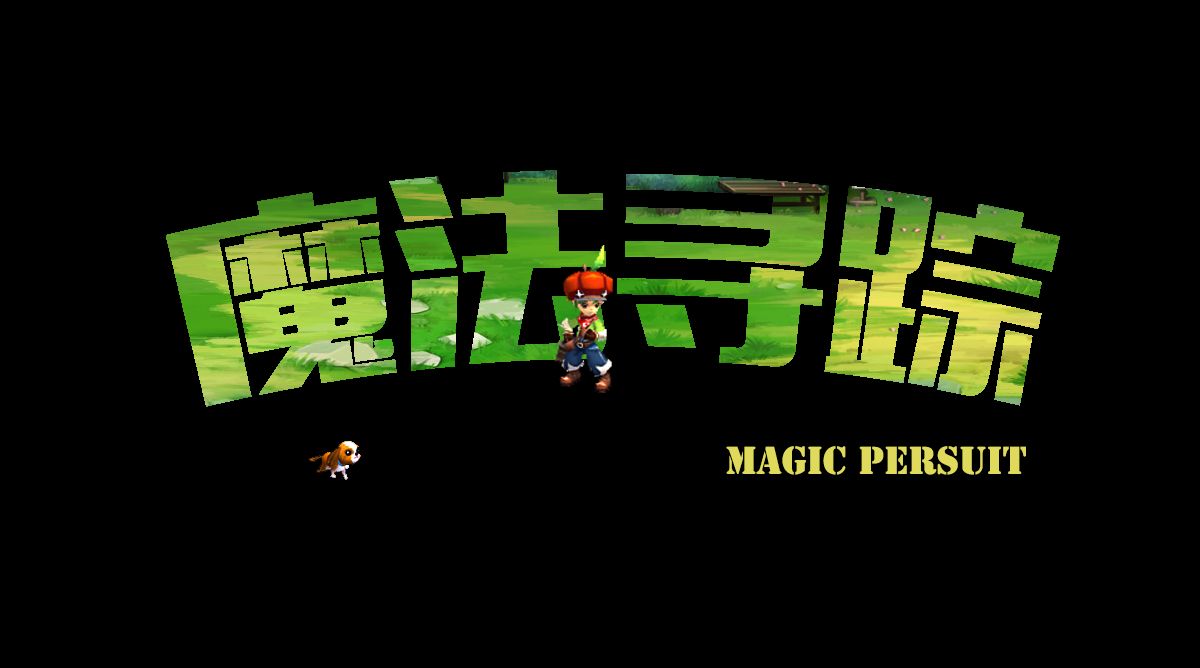
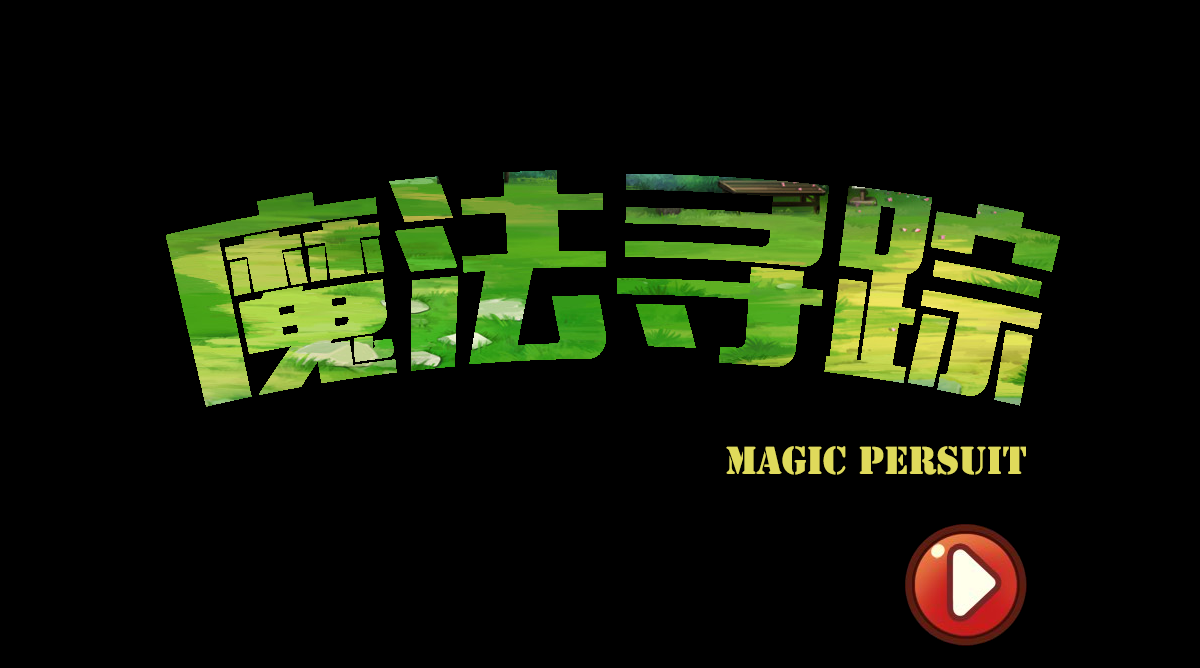
Add animation for cover screen

Changed region(s): [[0.74, 0.7784, 0.8633, 0.988], [0.4625, 0.3593, 0.5242, 0.5988], [0.2467, 0.6587, 0.3083, 0.7186]]

diff --git a/WizardEscape/src/com/smilestudio/wizardescape/utils/ResourceHelper.java b/WizardEscape/src/com/smilestudio/wizardescape/utils/ResourceHelper.java
@@ -3,6 +3,7 @@ package com.smilestudio.wizardescape.utils;
 import com.badlogic.gdx.Gdx;
 import com.badlogic.gdx.audio.Music;
 import com.badlogic.gdx.graphics.Texture;
+import com.badlogic.gdx.graphics.g2d.TextureRegion;
 import com.badlogic.gdx.scenes.scene2d.ui.Image;
 
 public class ResourceHelper {
@@ -79,4 +80,96 @@ public class ResourceHelper {
         }
     }
 
+    public static TextureRegion[] getHeroDownRegions() {
+        TextureRegion[] regions = new TextureRegion[6];
+        regions[0] = new TextureRegion(new Texture(Gdx.files.internal("character/img_run_front_0.png")));
+        regions[1] = new TextureRegion(new Texture(Gdx.files.internal("character/img_run_front_1.png")));
+        regions[2] = new TextureRegion(new Texture(Gdx.files.internal("character/img_run_front_2.png")));
+        regions[3] = new TextureRegion(new Texture(Gdx.files.internal("character/img_run_front_3.png")));
+        regions[4] = new TextureRegion(new Texture(Gdx.files.internal("character/img_run_front_4.png")));
+        regions[5] = new TextureRegion(new Texture(Gdx.files.internal("character/img_run_front_5.png")));
+        return regions;
+    }
+
+    public static TextureRegion[] getHeroUpRegions() {
+        TextureRegion[] regions = new TextureRegion[6];
+        regions[0] = new TextureRegion(new Texture(Gdx.files.internal("character/img_run_back_0.png")));
+        regions[1] = new TextureRegion(new Texture(Gdx.files.internal("character/img_run_back_1.png")));
+        regions[2] = new TextureRegion(new Texture(Gdx.files.internal("character/img_run_back_2.png")));
+        regions[3] = new TextureRegion(new Texture(Gdx.files.internal("character/img_run_back_3.png")));
+        regions[4] = new TextureRegion(new Texture(Gdx.files.internal("character/img_run_back_4.png")));
+        regions[5] = new TextureRegion(new Texture(Gdx.files.internal("character/img_run_back_5.png")));
+        return regions;
+    }
+
+    public static TextureRegion[] getHeroLeftRegions() {
+        TextureRegion[] regions = new TextureRegion[6];
+        regions[0] = new TextureRegion(new Texture(Gdx.files.internal("character/img_run_left_0.png")));
+        regions[1] = new TextureRegion(new Texture(Gdx.files.internal("character/img_run_left_1.png")));
+        regions[2] = new TextureRegion(new Texture(Gdx.files.internal("character/img_run_left_2.png")));
+        regions[3] = new TextureRegion(new Texture(Gdx.files.internal("character/img_run_left_3.png")));
+        regions[4] = new TextureRegion(new Texture(Gdx.files.internal("character/img_run_left_4.png")));
+        regions[5] = new TextureRegion(new Texture(Gdx.files.internal("character/img_run_left_5.png")));
+        return regions;
+    }
+
+    public static TextureRegion[] getHeroRightRegions() {
+        TextureRegion[] regions = new TextureRegion[6];
+        regions[0] = new TextureRegion(new Texture(Gdx.files.internal("character/img_run_right_0.png")));
+        regions[1] = new TextureRegion(new Texture(Gdx.files.internal("character/img_run_right_1.png")));
+        regions[2] = new TextureRegion(new Texture(Gdx.files.internal("character/img_run_right_2.png")));
+        regions[3] = new TextureRegion(new Texture(Gdx.files.internal("character/img_run_right_3.png")));
+        regions[4] = new TextureRegion(new Texture(Gdx.files.internal("character/img_run_right_4.png")));
+        regions[5] = new TextureRegion(new Texture(Gdx.files.internal("character/img_run_right_5.png")));
+        return regions;
+    }
+
+    public static TextureRegion[] getHeroStandRegions() {
+        TextureRegion[] regions = new TextureRegion[10];
+        regions[0] = new TextureRegion(new Texture(Gdx.files.internal("character/img_stand_0.png")));
+        regions[1] = new TextureRegion(new Texture(Gdx.files.internal("character/img_stand_1.png")));
+        regions[2] = new TextureRegion(new Texture(Gdx.files.internal("character/img_stand_2.png")));
+        regions[3] = new TextureRegion(new Texture(Gdx.files.internal("character/img_stand_3.png")));
+        regions[4] = new TextureRegion(new Texture(Gdx.files.internal("character/img_stand_4.png")));
+        regions[5] = new TextureRegion(new Texture(Gdx.files.internal("character/img_stand_5.png")));
+        regions[6] = new TextureRegion(new Texture(Gdx.files.internal("character/img_stand_6.png")));
+        regions[7] = new TextureRegion(new Texture(Gdx.files.internal("character/img_stand_7.png")));
+        regions[8] = new TextureRegion(new Texture(Gdx.files.internal("character/img_stand_8.png")));
+        regions[9] = new TextureRegion(new Texture(Gdx.files.internal("character/img_stand_9.png")));
+        return regions;
+    }
+
+    public static TextureRegion[] getDogRightRegions() {
+        TextureRegion[] regions = new TextureRegion[8];
+        regions[0] = new TextureRegion(new Texture(Gdx.files.internal("character/img_dog_walk_0.png")));
+        regions[1] = new TextureRegion(new Texture(Gdx.files.internal("character/img_dog_walk_1.png")));
+        regions[2] = new TextureRegion(new Texture(Gdx.files.internal("character/img_dog_walk_2.png")));
+        regions[3] = new TextureRegion(new Texture(Gdx.files.internal("character/img_dog_walk_3.png")));
+        regions[4] = new TextureRegion(new Texture(Gdx.files.internal("character/img_dog_walk_4.png")));
+        regions[5] = new TextureRegion(new Texture(Gdx.files.internal("character/img_dog_walk_5.png")));
+        regions[6] = new TextureRegion(new Texture(Gdx.files.internal("character/img_dog_walk_6.png")));
+        regions[7] = new TextureRegion(new Texture(Gdx.files.internal("character/img_dog_walk_7.png")));
+        return regions;
+    }
+
+    public static TextureRegion[] getDogLeftRegions() {
+        TextureRegion[] regions = new TextureRegion[8];
+        Texture texture = new Texture(Gdx.files.internal("character/img_dog_walk_0.png"));
+        regions[0] = new TextureRegion(texture, texture.getWidth(), 0, -texture.getWidth(), texture.getHeight());
+        texture = new Texture(Gdx.files.internal("character/img_dog_walk_1.png"));
+        regions[1] = new TextureRegion(texture, texture.getWidth(), 0, -texture.getWidth(), texture.getHeight());
+        texture = new Texture(Gdx.files.internal("character/img_dog_walk_2.png"));
+        regions[2] = new TextureRegion(texture, texture.getWidth(), 0, -texture.getWidth(), texture.getHeight());
+        texture = new Texture(Gdx.files.internal("character/img_dog_walk_3.png"));
+        regions[3] = new TextureRegion(texture, texture.getWidth(), 0, -texture.getWidth(), texture.getHeight());
+        texture = new Texture(Gdx.files.internal("character/img_dog_walk_4.png"));
+        regions[4] = new TextureRegion(texture, texture.getWidth(), 0, -texture.getWidth(), texture.getHeight());
+        texture = new Texture(Gdx.files.internal("character/img_dog_walk_5.png"));
+        regions[5] = new TextureRegion(texture, texture.getWidth(), 0, -texture.getWidth(), texture.getHeight());
+        texture = new Texture(Gdx.files.internal("character/img_dog_walk_6.png"));
+        regions[6] = new TextureRegion(texture, texture.getWidth(), 0, -texture.getWidth(), texture.getHeight());
+        texture = new Texture(Gdx.files.internal("character/img_dog_walk_7.png"));
+        regions[7] = new TextureRegion(texture, texture.getWidth(), 0, -texture.getWidth(), texture.getHeight());
+        return regions;
+    }
 }

diff --git a/WizardEscape/src/com/smilestudio/wizardescape/GameManager.java b/WizardEscape/src/com/smilestudio/wizardescape/GameManager.java
@@ -181,10 +181,10 @@ public class GameManager {
                     case TYPE_EMPTY:
                         break;
                     case TYPE_ME:
-                        float duration = 0.1f;
-                        mMe = new HeroActor(getHeroUpRegions(), duration, getHeroDownRegions(), duration,
-                                getHeroLeftRegions(), duration, getHeroRightRegions(), duration,
-                                getHeroStandRegions(), duration);
+                        float duration = Constants.ANIMATION_HERO_ACTION_DURATION;
+                        mMe = new HeroActor(ResourceHelper.getHeroUpRegions(), duration, ResourceHelper.getHeroDownRegions(), duration,
+                                ResourceHelper.getHeroLeftRegions(), duration, ResourceHelper.getHeroRightRegions(), duration,
+                                ResourceHelper.getHeroStandRegions(), duration);
                         mMe.setName(NAME_ME);
                         mCurrentCellX = j;
                         mCurrentCellY = i;
@@ -295,64 +295,6 @@ public class GameManager {
         return star;
     }
 
-    private TextureRegion[] getHeroDownRegions() {
-        TextureRegion[] regions = new TextureRegion[6];
-        regions[0] = new TextureRegion(new Texture(Gdx.files.internal("character/img_run_front_0.png")));
-        regions[1] = new TextureRegion(new Texture(Gdx.files.internal("character/img_run_front_1.png")));
-        regions[2] = new TextureRegion(new Texture(Gdx.files.internal("character/img_run_front_2.png")));
-        regions[3] = new TextureRegion(new Texture(Gdx.files.internal("character/img_run_front_3.png")));
-        regions[4] = new TextureRegion(new Texture(Gdx.files.internal("character/img_run_front_4.png")));
-        regions[5] = new TextureRegion(new Texture(Gdx.files.internal("character/img_run_front_5.png")));
-        return regions;
-    }
-
-    private TextureRegion[] getHeroUpRegions() {
-        TextureRegion[] regions = new TextureRegion[6];
-        regions[0] = new TextureRegion(new Texture(Gdx.files.internal("character/img_run_back_0.png")));
-        regions[1] = new TextureRegion(new Texture(Gdx.files.internal("character/img_run_back_1.png")));
-        regions[2] = new TextureRegion(new Texture(Gdx.files.internal("character/img_run_back_2.png")));
-        regions[3] = new TextureRegion(new Texture(Gdx.files.internal("character/img_run_back_3.png")));
-        regions[4] = new TextureRegion(new Texture(Gdx.files.internal("character/img_run_back_4.png")));
-        regions[5] = new TextureRegion(new Texture(Gdx.files.internal("character/img_run_back_5.png")));
-        return regions;
-    }
-
-    private TextureRegion[] getHeroLeftRegions() {
-        TextureRegion[] regions = new TextureRegion[6];
-        regions[0] = new TextureRegion(new Texture(Gdx.files.internal("character/img_run_left_0.png")));
-        regions[1] = new TextureRegion(new Texture(Gdx.files.internal("character/img_run_left_1.png")));
-        regions[2] = new TextureRegion(new Texture(Gdx.files.internal("character/img_run_left_2.png")));
-        regions[3] = new TextureRegion(new Texture(Gdx.files.internal("character/img_run_left_3.png")));
-        regions[4] = new TextureRegion(new Texture(Gdx.files.internal("character/img_run_left_4.png")));
-        regions[5] = new TextureRegion(new Texture(Gdx.files.internal("character/img_run_left_5.png")));
-        return regions;
-    }
-
-    private TextureRegion[] getHeroRightRegions() {
-        TextureRegion[] regions = new TextureRegion[6];
-        regions[0] = new TextureRegion(new Texture(Gdx.files.internal("character/img_run_right_0.png")));
-        regions[1] = new TextureRegion(new Texture(Gdx.files.internal("character/img_run_right_1.png")));
-        regions[2] = new TextureRegion(new Texture(Gdx.files.internal("character/img_run_right_2.png")));
-        regions[3] = new TextureRegion(new Texture(Gdx.files.internal("character/img_run_right_3.png")));
-        regions[4] = new TextureRegion(new Texture(Gdx.files.internal("character/img_run_right_4.png")));
-        regions[5] = new TextureRegion(new Texture(Gdx.files.internal("character/img_run_right_5.png")));
-        return regions;
-    }
-
-    private TextureRegion[] getHeroStandRegions() {
-        TextureRegion[] regions = new TextureRegion[10];
-        regions[0] = new TextureRegion(new Texture(Gdx.files.internal("character/img_stand_0.png")));
-        regions[1] = new TextureRegion(new Texture(Gdx.files.internal("character/img_stand_1.png")));
-        regions[2] = new TextureRegion(new Texture(Gdx.files.internal("character/img_stand_2.png")));
-        regions[3] = new TextureRegion(new Texture(Gdx.files.internal("character/img_stand_3.png")));
-        regions[4] = new TextureRegion(new Texture(Gdx.files.internal("character/img_stand_4.png")));
-        regions[5] = new TextureRegion(new Texture(Gdx.files.internal("character/img_stand_5.png")));
-        regions[6] = new TextureRegion(new Texture(Gdx.files.internal("character/img_stand_6.png")));
-        regions[7] = new TextureRegion(new Texture(Gdx.files.internal("character/img_stand_7.png")));
-        regions[8] = new TextureRegion(new Texture(Gdx.files.internal("character/img_stand_8.png")));
-        regions[9] = new TextureRegion(new Texture(Gdx.files.internal("character/img_stand_9.png")));
-        return regions;
-    }
 
     private AdvanceActor genaratePortalActor(int type) {
         String name;

diff --git a/WizardEscape/src/com/smilestudio/wizardescape/screen/CoverScreen.java b/WizardEscape/src/com/smilestudio/wizardescape/screen/CoverScreen.java
@@ -12,11 +12,14 @@ import com.badlogic.gdx.math.Vector2;
 import com.badlogic.gdx.scenes.scene2d.Stage;
 import com.badlogic.gdx.scenes.scene2d.actions.Actions;
 import com.badlogic.gdx.scenes.scene2d.actions.RepeatAction;
+import com.badlogic.gdx.scenes.scene2d.actions.RunnableAction;
 import com.badlogic.gdx.scenes.scene2d.actions.SequenceAction;
 import com.badlogic.gdx.scenes.scene2d.actions.SizeToAction;
 import com.badlogic.gdx.scenes.scene2d.ui.Image;
 import com.smilestudio.wizardescape.GameManager;
+import com.smilestudio.wizardescape.actors.HeroActor;
 import com.smilestudio.wizardescape.utils.Constants;
+import com.smilestudio.wizardescape.utils.ResourceHelper;
 
 public class CoverScreen implements Screen, InputProcessor {
 
@@ -65,14 +68,38 @@ public class CoverScreen implements Screen, InputProcessor {
 
         mStage = new Stage(Constants.STAGE_WIDTH, Constants.STAGE_HEIGHT, false);
 
-//        AdvanceActor logoActor = new AdvanceActor(0.1f, logoRegions, Animation.LOOP_PINGPONG, AdvanceActor.STATUS_PLAY);
-//        logoActor.setPosition(Constants.COVER_SCREEN_POSITION_X_LOGO, Constants.COVER_SCREEN_POSITION_Y_LOGO);
-//        logoActor.setSize(logoTexture.getWidth() / 2, logoTexture.getHeight() / 2);
-//        mStage.addActor(logoActor);
-
         Image bkImg = new Image(new Texture(Gdx.files.internal("background/img_cover_background.png")));
         bkImg.setPosition(0, 0);
         mStage.addActor(bkImg);
+
+        float duration = Constants.ANIMATION_HERO_ACTION_DURATION;
+        HeroActor hero = new HeroActor(ResourceHelper.getHeroUpRegions(), duration, ResourceHelper.getHeroDownRegions(), duration,
+                ResourceHelper.getHeroLeftRegions(), duration, ResourceHelper.getHeroRightRegions(), duration,
+                ResourceHelper.getHeroStandRegions(), duration);
+        hero.setPosition(540, 280);
+        hero.setScale(1.5f);
+        mStage.addActor(hero);
+
+        final HeroActor dog = new HeroActor(null, duration, null, duration, ResourceHelper.getDogLeftRegions(), duration,
+                ResourceHelper.getDogRightRegions(), duration, null, duration);
+        dog.setPosition(200, 185);
+        RunnableAction turnRight = Actions.run(new Runnable() {
+
+            @Override
+            public void run() {
+                dog.setStatus(HeroActor.STATUS_RIGHT);
+            }});
+        RunnableAction turnLeft = Actions.run(new Runnable() {
+
+            @Override
+            public void run() {
+                dog.setStatus(HeroActor.STATUS_LEFT);
+            }});
+        SequenceAction dogWalk = Actions.sequence(Actions.moveBy(400, 0, 5f), turnLeft, Actions.moveBy(-400, 0, 5f), turnRight);
+        RepeatAction repeat = Actions.forever(dogWalk);
+        dog.addAction(repeat);
+        dog.setStatus(HeroActor.STATUS_RIGHT);
+        mStage.addActor(dog);
 
         Texture startTexture = new Texture(Gdx.files.internal("buttons/img_start.png"));
         mStartButton = new Image(startTexture);
@@ -107,7 +134,6 @@ public class CoverScreen implements Screen, InputProcessor {
 
     @Override
     public void dispose() {
-        // TODO Auto-generated method stub
         mStage.dispose();
     }
 

diff --git a/WizardEscape/src/com/smilestudio/wizardescape/actors/HeroActor.java b/WizardEscape/src/com/smilestudio/wizardescape/actors/HeroActor.java
@@ -29,16 +29,26 @@ public class HeroActor extends Actor {
                     TextureRegion[] leftRegions, float leftDuration,
                     TextureRegion[] rightRegions, float rightDuration,
                     TextureRegion[] standRegions, float standDuration) {
-        mUpAnimation = new Animation(upDuration, upRegions);
-        mUpAnimation.setPlayMode(Animation.LOOP);
-        mDownAnimation = new Animation(downDuration, downRegions);
-        mDownAnimation.setPlayMode(Animation.LOOP);
-        mLeftAnimation = new Animation(leftDuration, leftRegions);
-        mLeftAnimation.setPlayMode(Animation.LOOP);
-        mRightAnimation = new Animation(rightDuration, rightRegions);
-        mRightAnimation.setPlayMode(Animation.LOOP);
-        mStandAnimation = new Animation(standDuration, standRegions);
-        mStandAnimation.setPlayMode(Animation.LOOP);
+        if (upRegions != null) {
+            mUpAnimation = new Animation(upDuration, upRegions);
+            mUpAnimation.setPlayMode(Animation.LOOP);
+        }
+        if (downRegions != null) {
+            mDownAnimation = new Animation(downDuration, downRegions);
+            mDownAnimation.setPlayMode(Animation.LOOP);
+        }
+        if (leftRegions != null) {
+            mLeftAnimation = new Animation(leftDuration, leftRegions);
+            mLeftAnimation.setPlayMode(Animation.LOOP);
+        }
+        if (rightRegions != null) {
+            mRightAnimation = new Animation(rightDuration, rightRegions);
+            mRightAnimation.setPlayMode(Animation.LOOP);
+        }
+        if (standRegions != null) {
+            mStandAnimation = new Animation(standDuration, standRegions);
+            mStandAnimation.setPlayMode(Animation.LOOP);
+        }
 
         mStatus = STATUS_STAND;
     }
@@ -80,4 +90,5 @@ public class HeroActor extends Actor {
         batch.draw(region, getX() + (Constants.CELL_SIZE_WIDTH - region.getRegionWidth() * scaleX) / 2, getY(),
                 region.getRegionWidth() * scaleX, region.getRegionHeight() * scaleY);
     }
+
 }

diff --git a/WizardEscape/src/com/smilestudio/wizardescape/utils/Constants.java b/WizardEscape/src/com/smilestudio/wizardescape/utils/Constants.java
@@ -22,6 +22,7 @@ public class Constants {
     public final static float ANIMATION_STAR_DURATION = 0.8f;
     public final static float ANIMATION_HERO_PASS = 1.0f;
     public final static float ANIMATION_HERO_PORTAL_FADE_DURATION = 0.4f;
+    public final static float ANIMATION_HERO_ACTION_DURATION = 0.1f;
 
     public final static int COVER_SCREEN_POSITION_X_LOGO = 300;
     public final static int COVER_SCREEN_POSITION_Y_LOGO = 270;
